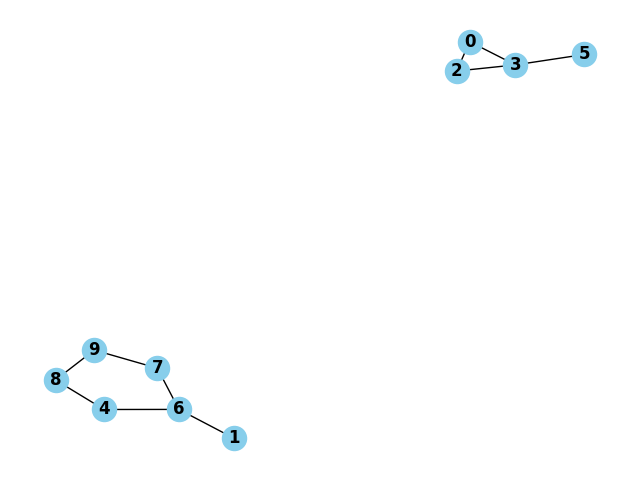
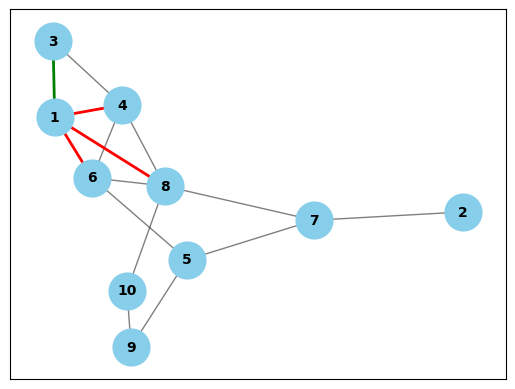
Adicionado coloração as arestas

diff --git a/buscaLarg.py b/buscaLarg.py
@@ -17,9 +17,13 @@ import networkx as nx
 import matplotlib.pyplot as plt
 import PySimpleGUI as sg
 from Vertice import Vertice
+from funGrafo import *
+from lerGrafo import *
 
+import networkx as nx
+import matplotlib.pyplot as plt
 
-def gerar_imagem_do_grafo(matriz_adjacencia, caminho_imagem, aresta_pintada=None):
+def gerar_imagem_do_grafo(matriz_adjacencia, caminho_imagem, arestas_visitadas=None, aresta_pintada=None):
     G = nx.Graph()
 
     # Converta a matriz de adjacência em uma lista de arestas
@@ -32,45 +36,31 @@ def gerar_imagem_do_grafo(matriz_adjacencia, caminho_imagem, aresta_pintada=None
 
     G.add_edges_from(arestas)
 
-    # Separa o grafo em componentes conectadas
-    componentes = list(nx.connected_components(G))
-
     fig, ax = plt.subplots()
 
-    # Desenhe as arestas e nós para cada componente separadamente usando spring_layout
-    for idx, componente in enumerate(componentes):
-        subgrafo = G.subgraph(componente)
+    pos = nx.spring_layout(G, seed=42)  # Posicionamento dos nós
 
-        # Atribui posições iniciais diferentes para cada subgrafo
-        if idx == 0:
-            pos = nx.spring_layout(subgrafo, seed=42)  # Seed 42 para reprodução
-        else:
-            pos = nx.spring_layout(subgrafo, seed=123)  # Seed 123 para reprodução
+    # Desenha todas as arestas do grafo
+    nx.draw_networkx_edges(G, pos, ax=ax, width=1.0, alpha=0.5, edge_color='k')
 
-        # Aplique um deslocamento diferente a cada subgrafo
-        for k in pos:
-            if idx == 0:
-                pos[k][0] += idx * 2  # Ajuste o fator multiplicativo conforme necessário
-            else:
-                pos[k][0] -= idx * 2  # Ajuste o fator multiplicativo conforme necessário
+    # Se houverem arestas visitadas, desenha-as em vermelho
+    if arestas_visitadas:
+        nx.draw_networkx_edges(G, pos, ax=ax, edgelist=arestas_visitadas,
+                               width=2.0, edge_color='red')
 
-        if aresta_pintada and aresta_pintada in subgrafo.edges():
-            # Se uma aresta específica for definida, pinte essa aresta de vermelho
-            nx.draw_networkx_edges(subgrafo, pos, ax=ax, edgelist=[aresta_pintada],
-                                   width=2.0, edge_color='red')
-            nx.draw_networkx_edges(subgrafo, pos, ax=ax,
-                                   edgelist=[edge for edge in subgrafo.edges() if edge != aresta_pintada],
-                                   width=1.0, alpha=0.5, edge_color='k')
-        else:
-            nx.draw_networkx_edges(subgrafo, pos, ax=ax, width=1.0, alpha=0.5, edge_color='k')
+    # Se houver uma aresta pintada, desenha-a em verde
+    if aresta_pintada:
+        nx.draw_networkx_edges(G, pos, ax=ax, edgelist=[aresta_pintada],
+                               width=2.0, edge_color='green')
 
-        # Desenhe os nós, rótulos e salve a imagem
-        nx.draw_networkx_nodes(subgrafo, pos, ax=ax, node_size=700, node_color="skyblue")
-        nx.draw_networkx_labels(subgrafo, pos, ax=ax, font_size=10, font_color="black", font_weight="bold")
+    # Desenha os nós, rótulos e salva a imagem
+    nx.draw_networkx_nodes(G, pos, ax=ax, node_size=700, node_color="skyblue")
+    nx.draw_networkx_labels(G, pos, ax=ax, font_size=10, font_color="black", font_weight="bold")
 
     plt.savefig(caminho_imagem, format="png", bbox_inches="tight")
     plt.close()
     return arestas
+
 
 
 # Exemplo: gerar uma imagem do grafo
@@ -87,11 +77,19 @@ matriz_adjacencia_exemplo = [
     [0, 0, 0, 0, 0, 0, 0, 1, 1, 0]
 ]
 
+lista = matriz_adjacencia_para_lista(matriz_adjacencia_exemplo)
+calcular_grau(lista)
+
+for vertice, grau in lista.items():
+    print(f'O vértice {vertice} possui grau {grau}')
+
 caminho_imagem_saida = "grafo/grafo.png"
 caminho_imagem = "grafo/grafo.png"
 sg.theme('Reddit')
 
-gerar_imagem_do_grafo(matriz_adjacencia_exemplo, caminho_imagem)
+arestas_visitada = [(1,4),(1,8),(1,6)]
+
+gerar_imagem_do_grafo(matriz_adjacencia_exemplo, caminho_imagem,arestas_visitada,(1,3))
 
 # Exemplo: criar uma fila com tamanho variável de 8
 tamanho = 8

diff --git a/funGrafo.py b/funGrafo.py
@@ -22,19 +22,10 @@ def calcular_grau(grafo):
     return grau
 
 
-# Exemplo de um grafo representado por lista de adjacência
-grafo_exemplo = {
-    'A': ['B', 'C'],
-    'B': ['A', 'C'],
-    'C': ['A', 'B', 'D'],
-    'D': ['C']
-}
 
-graus = calcular_grau(grafo_exemplo)
 
 # Exibir o grau de cada vértice
-for vertice, grau in graus.items():
-    print(f'O vértice {vertice} possui grau {grau}')
+
 
 # Aplicar busca em largura
 
